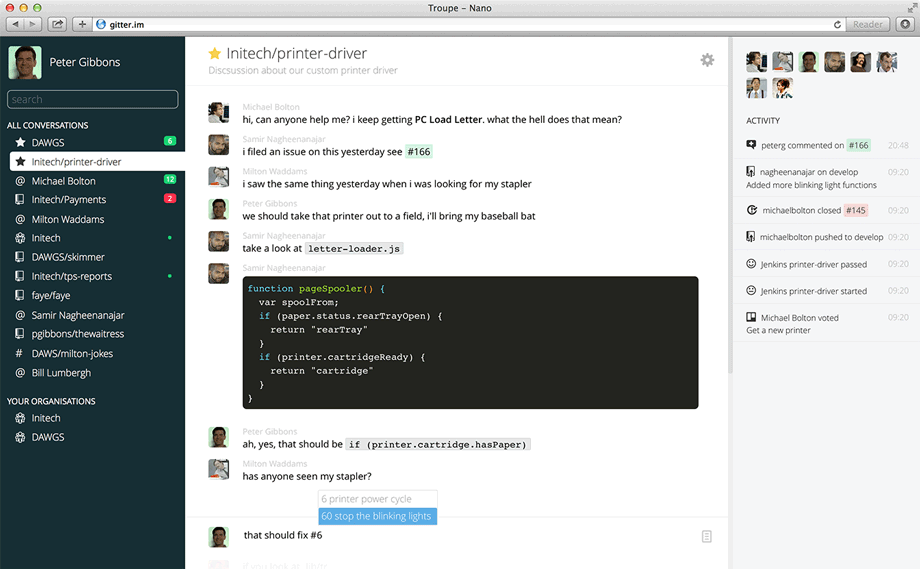
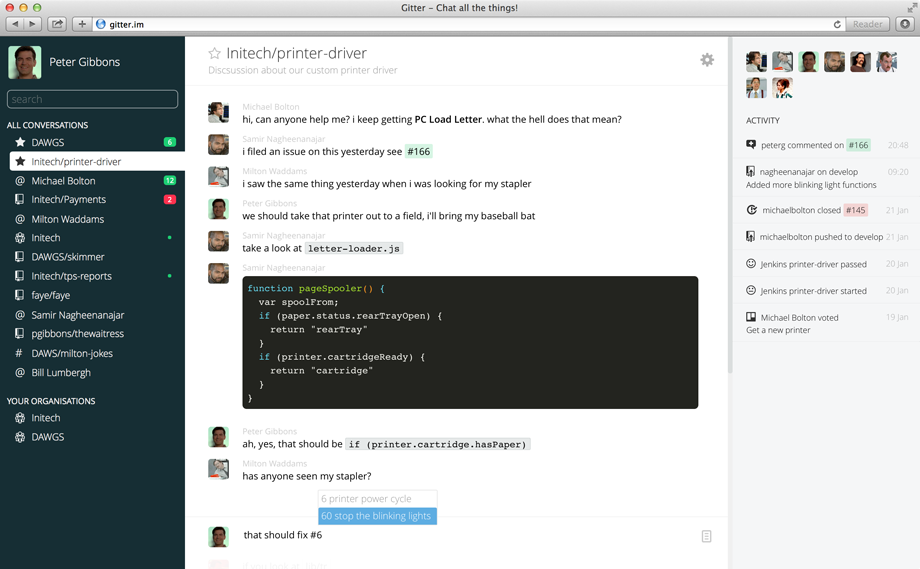
fixed screenshot title and alignment of unread badges

diff --git a/public/play/demo/troupe.html b/public/play/demo/troupe.html
@@ -1,6 +1,6 @@
 <html>
 <head>
-<title>Troupe - Nano</title>
+<title>Gitter - Chat all the things!</title>
 <link href='http://fonts.googleapis.com/css?family=Open+Sans:400,300,600' rel='stylesheet' type='text/css'>
 <link href="bootstrap.css" rel="stylesheet" type='text/css'>
 <link href="new.css" rel="stylesheet" type='text/css'>

diff --git a/public/play/demo/new.css b/public/play/demo/new.css
@@ -518,7 +518,7 @@ pre code {
   margin-right: 10px;
   padding-bottom: 2px;
   text-align: center;
-  margin-top: 2px;
+  margin-top: 4px;
 /*  color: #162e34;*/
   font-weight: 400;
   color: white;
